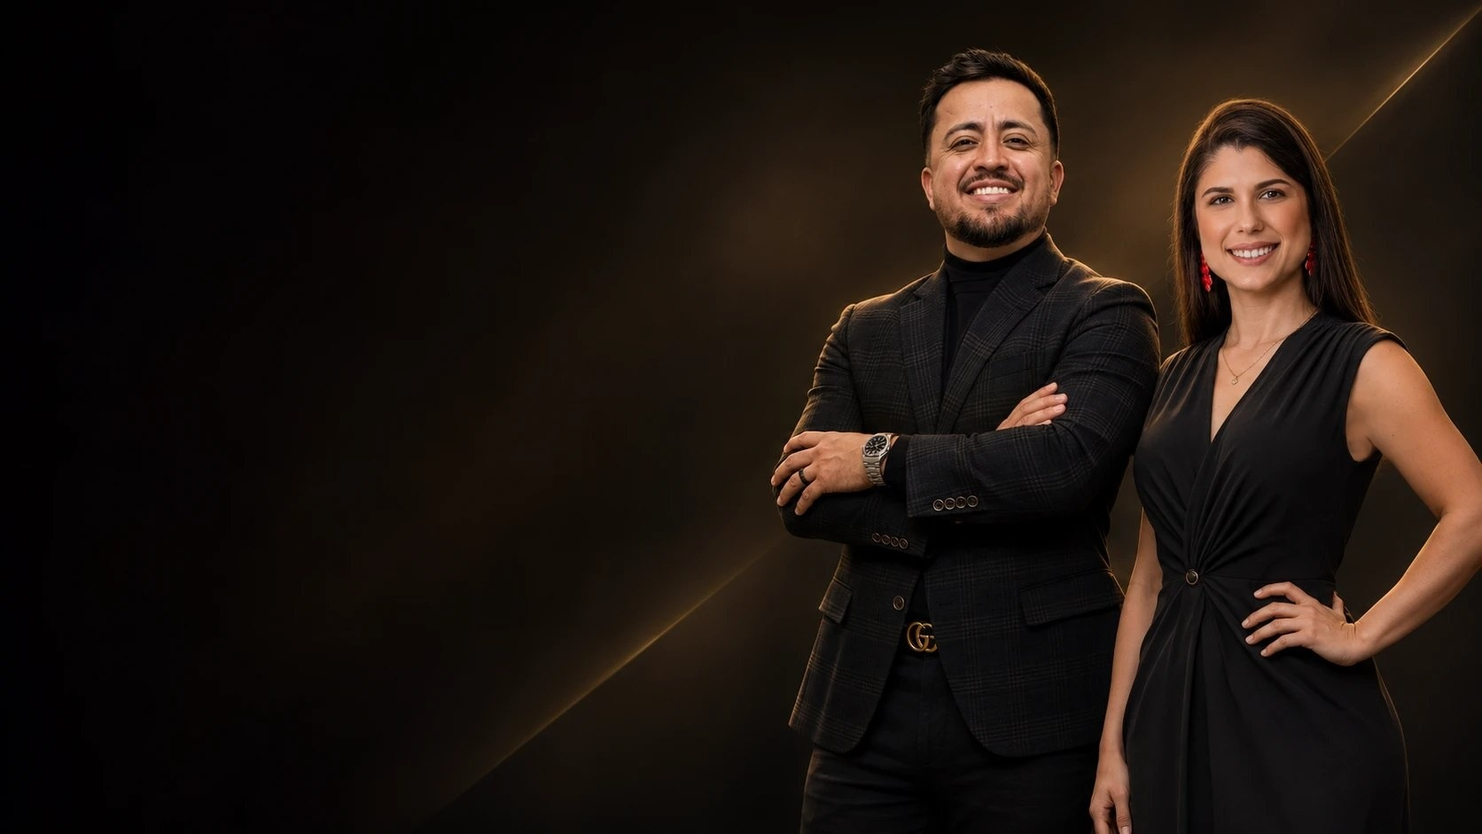
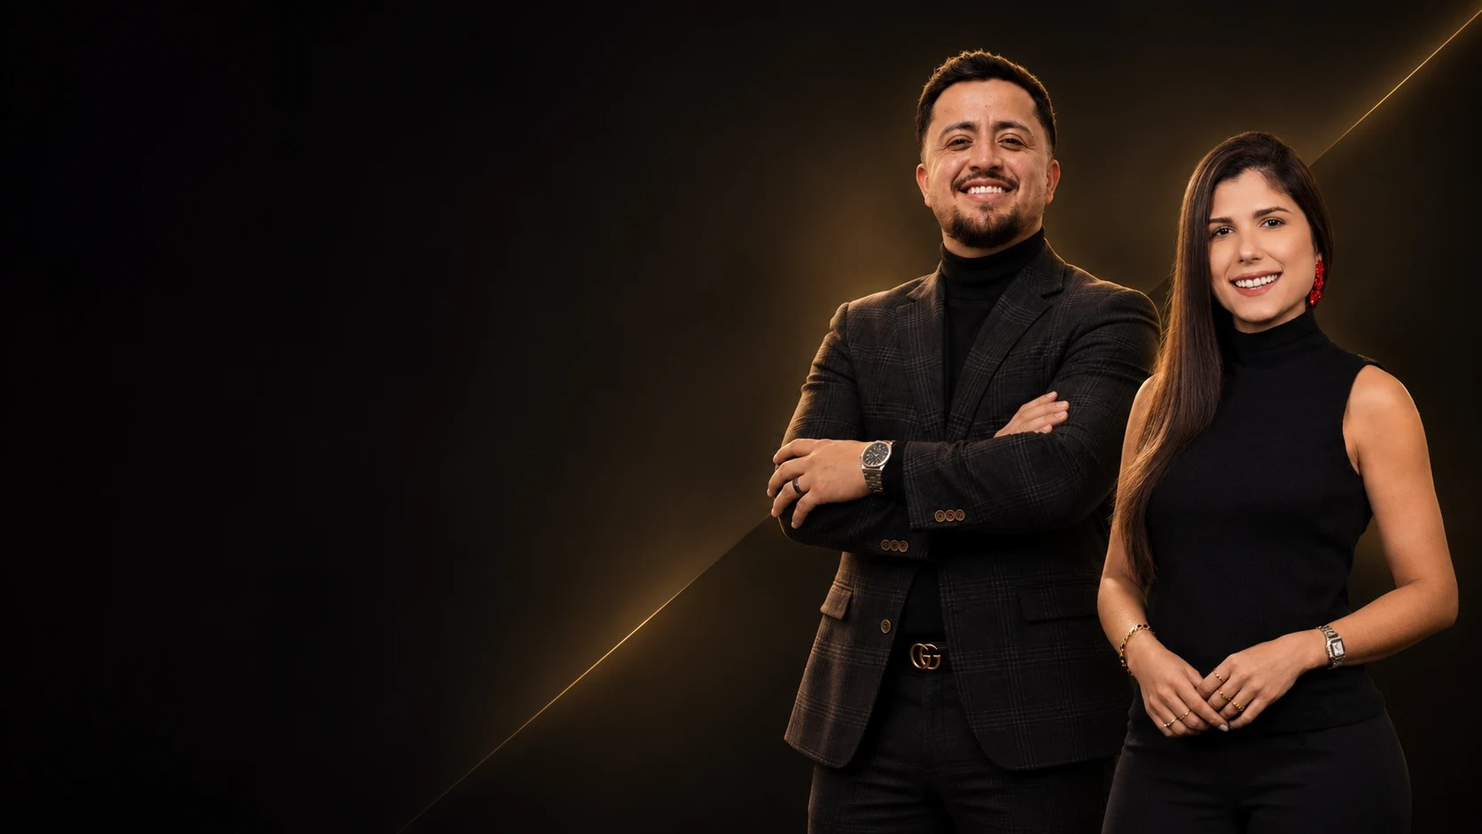
Nuevo Hero del Inicio con la foto actualizada de Hugo y Mónica; ajuste de encuadre móvil
Claude-Session: https://claude.ai/code/session_01McEpPGfYYtpWFQ3cEQ4ixh

diff --git a/index.html b/index.html
@@ -7,7 +7,7 @@
 <link rel="icon" href="assets/img/one-empire-isotipo.png">
 <link rel="preconnect" href="https://fonts.googleapis.com"><link rel="preconnect" href="https://fonts.gstatic.com" crossorigin>
 <link href="https://fonts.googleapis.com/css2?family=Archivo:wdth,wght@100..125,400..900&family=Montserrat:wght@400;500;600;700&display=swap" rel="stylesheet">
-<link rel="stylesheet" href="assets/css/styles.css?v=d9d6f842"><script type="application/ld+json">[{"@context":"https://schema.org","@type":"Organization","name":"ONE EMPIRE","url":"https://oneempire.com","logo":"https://oneempire.com/assets/img/one-empire-logo.png","founder":[{"@type":"Person","name":"Hugo Pérez"},{"@type":"Person","name":"Mónica Tuccella"}],"inLanguage":"es"},{"@context":"https://schema.org","@type":"FAQPage","mainEntity":[{"@type":"Question","name":"¿Esto funciona para mi tipo de empresa de construcción?","acceptedAnswer":{"@type":"Answer","text":"Trabajamos con contratistas de remodelación, roofing, pintura, concreto, landscaping, pisos, masonry y más. Si tienes una empresa de construcción o servicios para el hogar, los principios son los mismos."}},{"@type":"Question","name":"¿Necesito facturar cierta cantidad para entrar?","acceptedAnswer":{"@type":"Answer","text":"En la llamada revisamos tu situación actual y te decimos con honestidad si somos la mejor opción para ti en este momento."}},{"@type":"Question","name":"¿Es todo en español?","acceptedAnswer":{"@type":"Answer","text":"Sí. Todo nuestro contenido, mentorías y acompañamiento son en español."}},{"@type":"Question","name":"No tengo tiempo, ya trabajo demasiado.","acceptedAnswer":{"@type":"Answer","text":"Precisamente por eso existimos. El objetivo es que dejes de trabajar más horas y empieces a trabajar con un sistema que trabaje por ti."}},{"@type":"Question","name":"Ya he invertido en marketing antes y no funcionó. ¿Por qué esto sería diferente?","acceptedAnswer":{"@type":"Answer","text":"La mayoría de los contratistas que llegan a nosotros nos dicen lo mismo. El problema casi nunca es el marketing en sí, sino que no había una estrategia, un sistema de ventas ni un seguimiento detrás. Eso es lo que construimos contigo."}},{"@type":"Question","name":"¿Cuánto cuesta?","acceptedAnswer":{"@type":"Answer","text":"Cada empresa es diferente. En la llamada entendemos dónde estás y qué necesitas, y te presentamos la opción que tiene sentido para ti."}}]}]</script></head><body data-page="home"><header id="site-header"><div class="bar">
+<link rel="stylesheet" href="assets/css/styles.css?v=44f2b7a2"><script type="application/ld+json">[{"@context":"https://schema.org","@type":"Organization","name":"ONE EMPIRE","url":"https://oneempire.com","logo":"https://oneempire.com/assets/img/one-empire-logo.png","founder":[{"@type":"Person","name":"Hugo Pérez"},{"@type":"Person","name":"Mónica Tuccella"}],"inLanguage":"es"},{"@context":"https://schema.org","@type":"FAQPage","mainEntity":[{"@type":"Question","name":"¿Esto funciona para mi tipo de empresa de construcción?","acceptedAnswer":{"@type":"Answer","text":"Trabajamos con contratistas de remodelación, roofing, pintura, concreto, landscaping, pisos, masonry y más. Si tienes una empresa de construcción o servicios para el hogar, los principios son los mismos."}},{"@type":"Question","name":"¿Necesito facturar cierta cantidad para entrar?","acceptedAnswer":{"@type":"Answer","text":"En la llamada revisamos tu situación actual y te decimos con honestidad si somos la mejor opción para ti en este momento."}},{"@type":"Question","name":"¿Es todo en español?","acceptedAnswer":{"@type":"Answer","text":"Sí. Todo nuestro contenido, mentorías y acompañamiento son en español."}},{"@type":"Question","name":"No tengo tiempo, ya trabajo demasiado.","acceptedAnswer":{"@type":"Answer","text":"Precisamente por eso existimos. El objetivo es que dejes de trabajar más horas y empieces a trabajar con un sistema que trabaje por ti."}},{"@type":"Question","name":"Ya he invertido en marketing antes y no funcionó. ¿Por qué esto sería diferente?","acceptedAnswer":{"@type":"Answer","text":"La mayoría de los contratistas que llegan a nosotros nos dicen lo mismo. El problema casi nunca es el marketing en sí, sino que no había una estrategia, un sistema de ventas ni un seguimiento detrás. Eso es lo que construimos contigo."}},{"@type":"Question","name":"¿Cuánto cuesta?","acceptedAnswer":{"@type":"Answer","text":"Cada empresa es diferente. En la llamada entendemos dónde estás y qué necesitas, y te presentamos la opción que tiene sentido para ti."}}]}]</script></head><body data-page="home"><header id="site-header"><div class="bar">
 <a class="brand" href="index.html" aria-label="ONE EMPIRE"><img src="assets/img/one-empire-logo.png" alt="ONE EMPIRE" width="104" height="46"></a>
 <nav class="nav" id="nav"><a href="index.html" aria-current="page">Inicio</a>
 <div class="dd"><a href="programas-para-contratistas.html">Programas<i></i></a><div class="dd-menu"><a href="programas-para-contratistas.html#p1">ONE</a><a href="programas-para-contratistas.html#p2">Elite Builders</a><a href="programas-para-contratistas.html#p3">Elite Closers</a><a href="programas-para-contratistas.html#p4">Prime Diseño 3D</a></div></div>
@@ -16,7 +16,7 @@
 <a class="btn btn-sm" href="agenda-tu-llamada.html">Agenda tu llamada</a></nav>
 <a class="lang" href="en/index.html" hreflang="en" lang="en" aria-label="English"><span class="on">ES</span><span class="">EN</span></a>
 <button class="burger" id="burger" aria-label="Menu" aria-expanded="false"><span></span><span></span></button></div></header><main>
-<section class="hero photo" style="--img:url(../img/mentoria-empresas-construccion-hugo-perez-monica-tuccella.jpg?v=b118191d);--pos:center" role="img" aria-label="Hugo Pérez y Mónica Tuccella, mentores de empresas de construcción">
+<section class="hero photo" style="--img:url(../img/mentoria-empresas-construccion-hugo-perez-monica-tuccella.jpg?v=1a333f13);--pos:center" role="img" aria-label="Hugo Pérez y Mónica Tuccella, mentores de empresas de construcción">
  <div class="wrap hero-in"><h1>La aceleradora #1 para contratistas latinos <span class="a">en Estados Unidos</span></h1><p class="lead">De contratista a empresario. Mentoría para empresas de construcción que quieren crecer: aprende a escalar tu negocio, aumentar tus ventas, formar un equipo sólido y construir un negocio que funcione sin depender de ti para todo.</p>
  <div class="row"><a class="btn btn-gold" href="agenda-tu-llamada.html" >MIRA CÓMO PODEMOS AYUDARTE<span class="ar">→</span></a><a class="btn btn-ghost" href="programas-para-contratistas.html" >VER PROGRAMAS</a></div>
  <p class="proof">El sistema que llevó a Potros Construction de $100K a más de $600K al mes en solo 3 meses.</p></div></section>

diff --git a/en/index.html b/en/index.html
@@ -7,7 +7,7 @@
 <link rel="icon" href="../assets/img/one-empire-isotipo.png">
 <link rel="preconnect" href="https://fonts.googleapis.com"><link rel="preconnect" href="https://fonts.gstatic.com" crossorigin>
 <link href="https://fonts.googleapis.com/css2?family=Archivo:wdth,wght@100..125,400..900&family=Montserrat:wght@400;500;600;700&display=swap" rel="stylesheet">
-<link rel="stylesheet" href="../assets/css/styles.css?v=d9d6f842"><script type="application/ld+json">[{"@context":"https://schema.org","@type":"Organization","name":"ONE EMPIRE","url":"https://oneempire.com","logo":"https://oneempire.com/assets/img/one-empire-logo.png","founder":[{"@type":"Person","name":"Hugo Pérez"},{"@type":"Person","name":"Mónica Tuccella"}],"inLanguage":"en"},{"@context":"https://schema.org","@type":"FAQPage","mainEntity":[{"@type":"Question","name":"Does this work for my type of construction company?","acceptedAnswer":{"@type":"Answer","text":"We work with remodeling, roofing, painting, concrete, landscaping, flooring, masonry contractors and more. If you have a construction or home-services company, the principles are the same."}},{"@type":"Question","name":"Do I need a minimum revenue to join?","acceptedAnswer":{"@type":"Answer","text":"On the call we review your current situation and tell you honestly whether we're the best option for you right now."}},{"@type":"Question","name":"Is everything in Spanish?","acceptedAnswer":{"@type":"Answer","text":"Yes. All our content, mentorship and support are in Spanish."}},{"@type":"Question","name":"I don't have time, I already work too much.","acceptedAnswer":{"@type":"Answer","text":"That's exactly why we exist. The goal is for you to stop working more hours and start working with a system that works for you."}},{"@type":"Question","name":"I've invested in marketing before and it didn't work. Why would this be different?","acceptedAnswer":{"@type":"Answer","text":"Most contractors who come to us say the same. The problem is almost never marketing itself, but that there was no strategy, sales system or follow-up behind it. That's what we build with you."}},{"@type":"Question","name":"How much does it cost?","acceptedAnswer":{"@type":"Answer","text":"Every company is different. On the call we understand where you are and what you need, and we present the option that makes sense for you."}}]}]</script></head><body data-page="home"><header id="site-header"><div class="bar">
+<link rel="stylesheet" href="../assets/css/styles.css?v=44f2b7a2"><script type="application/ld+json">[{"@context":"https://schema.org","@type":"Organization","name":"ONE EMPIRE","url":"https://oneempire.com","logo":"https://oneempire.com/assets/img/one-empire-logo.png","founder":[{"@type":"Person","name":"Hugo Pérez"},{"@type":"Person","name":"Mónica Tuccella"}],"inLanguage":"en"},{"@context":"https://schema.org","@type":"FAQPage","mainEntity":[{"@type":"Question","name":"Does this work for my type of construction company?","acceptedAnswer":{"@type":"Answer","text":"We work with remodeling, roofing, painting, concrete, landscaping, flooring, masonry contractors and more. If you have a construction or home-services company, the principles are the same."}},{"@type":"Question","name":"Do I need a minimum revenue to join?","acceptedAnswer":{"@type":"Answer","text":"On the call we review your current situation and tell you honestly whether we're the best option for you right now."}},{"@type":"Question","name":"Is everything in Spanish?","acceptedAnswer":{"@type":"Answer","text":"Yes. All our content, mentorship and support are in Spanish."}},{"@type":"Question","name":"I don't have time, I already work too much.","acceptedAnswer":{"@type":"Answer","text":"That's exactly why we exist. The goal is for you to stop working more hours and start working with a system that works for you."}},{"@type":"Question","name":"I've invested in marketing before and it didn't work. Why would this be different?","acceptedAnswer":{"@type":"Answer","text":"Most contractors who come to us say the same. The problem is almost never marketing itself, but that there was no strategy, sales system or follow-up behind it. That's what we build with you."}},{"@type":"Question","name":"How much does it cost?","acceptedAnswer":{"@type":"Answer","text":"Every company is different. On the call we understand where you are and what you need, and we present the option that makes sense for you."}}]}]</script></head><body data-page="home"><header id="site-header"><div class="bar">
 <a class="brand" href="index.html" aria-label="ONE EMPIRE"><img src="../assets/img/one-empire-logo.png" alt="ONE EMPIRE" width="104" height="46"></a>
 <nav class="nav" id="nav"><a href="index.html" aria-current="page">Home</a>
 <div class="dd"><a href="programs-for-contractors.html">Programs<i></i></a><div class="dd-menu"><a href="programs-for-contractors.html#p1">ONE</a><a href="programs-for-contractors.html#p2">Elite Builders</a><a href="programs-for-contractors.html#p3">Elite Closers</a><a href="programs-for-contractors.html#p4">Prime 3D Design</a></div></div>
@@ -16,7 +16,7 @@
 <a class="btn btn-sm" href="book-your-call.html">Book your call</a></nav>
 <a class="lang" href="../index.html" hreflang="es" lang="es" aria-label="Español"><span class="">ES</span><span class="on">EN</span></a>
 <button class="burger" id="burger" aria-label="Menu" aria-expanded="false"><span></span><span></span></button></div></header><main>
-<section class="hero photo" style="--img:url(../img/mentorship-construction-companies-hugo-perez-monica-tuccella.jpg?v=b118191d);--pos:center" role="img" aria-label="Hugo Pérez and Mónica Tuccella, construction company mentors">
+<section class="hero photo" style="--img:url(../img/mentorship-construction-companies-hugo-perez-monica-tuccella.jpg?v=1a333f13);--pos:center" role="img" aria-label="Hugo Pérez and Mónica Tuccella, construction company mentors">
  <div class="wrap hero-in"><h1>The #1 accelerator for Latino contractors <span class="a">in the United States</span></h1><p class="lead">From contractor to entrepreneur. Mentorship for construction companies that want to grow: learn to scale your business, increase sales, build a solid team and create a business that runs without depending on you for everything.</p>
  <div class="row"><a class="btn btn-gold" href="book-your-call.html" >SEE HOW WE CAN HELP YOU<span class="ar">→</span></a><a class="btn btn-ghost" href="programs-for-contractors.html" >VIEW PROGRAMS</a></div>
  <p class="proof">The system that took Potros Construction from $100K to over $600K a month in just 3 months.</p></div></section>

diff --git a/programas-para-contratistas.html b/programas-para-contratistas.html
@@ -7,7 +7,7 @@
 <link rel="icon" href="assets/img/one-empire-isotipo.png">
 <link rel="preconnect" href="https://fonts.googleapis.com"><link rel="preconnect" href="https://fonts.gstatic.com" crossorigin>
 <link href="https://fonts.googleapis.com/css2?family=Archivo:wdth,wght@100..125,400..900&family=Montserrat:wght@400;500;600;700&display=swap" rel="stylesheet">
-<link rel="stylesheet" href="assets/css/styles.css?v=d9d6f842"></head><body data-page="programs"><header id="site-header"><div class="bar">
+<link rel="stylesheet" href="assets/css/styles.css?v=44f2b7a2"></head><body data-page="programs"><header id="site-header"><div class="bar">
 <a class="brand" href="index.html" aria-label="ONE EMPIRE"><img src="assets/img/one-empire-logo.png" alt="ONE EMPIRE" width="104" height="46"></a>
 <nav class="nav" id="nav"><a href="index.html">Inicio</a>
 <div class="dd"><a href="programas-para-contratistas.html">Programas<i></i></a><div class="dd-menu"><a href="programas-para-contratistas.html#p1">ONE</a><a href="programas-para-contratistas.html#p2">Elite Builders</a><a href="programas-para-contratistas.html#p3">Elite Closers</a><a href="programas-para-contratistas.html#p4">Prime Diseño 3D</a></div></div>

diff --git a/privacidad.html b/privacidad.html
@@ -7,7 +7,7 @@
 <link rel="icon" href="assets/img/one-empire-isotipo.png">
 <link rel="preconnect" href="https://fonts.googleapis.com"><link rel="preconnect" href="https://fonts.gstatic.com" crossorigin>
 <link href="https://fonts.googleapis.com/css2?family=Archivo:wdth,wght@100..125,400..900&family=Montserrat:wght@400;500;600;700&display=swap" rel="stylesheet">
-<link rel="stylesheet" href="assets/css/styles.css?v=d9d6f842"></head><body data-page="privacy"><header id="site-header"><div class="bar">
+<link rel="stylesheet" href="assets/css/styles.css?v=44f2b7a2"></head><body data-page="privacy"><header id="site-header"><div class="bar">
 <a class="brand" href="index.html" aria-label="ONE EMPIRE"><img src="assets/img/one-empire-logo.png" alt="ONE EMPIRE" width="104" height="46"></a>
 <nav class="nav" id="nav"><a href="index.html">Inicio</a>
 <div class="dd"><a href="programas-para-contratistas.html">Programas<i></i></a><div class="dd-menu"><a href="programas-para-contratistas.html#p1">ONE</a><a href="programas-para-contratistas.html#p2">Elite Builders</a><a href="programas-para-contratistas.html#p3">Elite Closers</a><a href="programas-para-contratistas.html#p4">Prime Diseño 3D</a></div></div>

diff --git a/resultados-de-contratistas-latinos.html b/resultados-de-contratistas-latinos.html
@@ -7,7 +7,7 @@
 <link rel="icon" href="assets/img/one-empire-isotipo.png">
 <link rel="preconnect" href="https://fonts.googleapis.com"><link rel="preconnect" href="https://fonts.gstatic.com" crossorigin>
 <link href="https://fonts.googleapis.com/css2?family=Archivo:wdth,wght@100..125,400..900&family=Montserrat:wght@400;500;600;700&display=swap" rel="stylesheet">
-<link rel="stylesheet" href="assets/css/styles.css?v=d9d6f842"></head><body data-page="results"><header id="site-header"><div class="bar">
+<link rel="stylesheet" href="assets/css/styles.css?v=44f2b7a2"></head><body data-page="results"><header id="site-header"><div class="bar">
 <a class="brand" href="index.html" aria-label="ONE EMPIRE"><img src="assets/img/one-empire-logo.png" alt="ONE EMPIRE" width="104" height="46"></a>
 <nav class="nav" id="nav"><a href="index.html">Inicio</a>
 <div class="dd"><a href="programas-para-contratistas.html">Programas<i></i></a><div class="dd-menu"><a href="programas-para-contratistas.html#p1">ONE</a><a href="programas-para-contratistas.html#p2">Elite Builders</a><a href="programas-para-contratistas.html#p3">Elite Closers</a><a href="programas-para-contratistas.html#p4">Prime Diseño 3D</a></div></div>

diff --git a/eventos-para-contratistas.html b/eventos-para-contratistas.html
@@ -7,7 +7,7 @@
 <link rel="icon" href="assets/img/one-empire-isotipo.png">
 <link rel="preconnect" href="https://fonts.googleapis.com"><link rel="preconnect" href="https://fonts.gstatic.com" crossorigin>
 <link href="https://fonts.googleapis.com/css2?family=Archivo:wdth,wght@100..125,400..900&family=Montserrat:wght@400;500;600;700&display=swap" rel="stylesheet">
-<link rel="stylesheet" href="assets/css/styles.css?v=d9d6f842"></head><body data-page="events"><header id="site-header"><div class="bar">
+<link rel="stylesheet" href="assets/css/styles.css?v=44f2b7a2"></head><body data-page="events"><header id="site-header"><div class="bar">
 <a class="brand" href="index.html" aria-label="ONE EMPIRE"><img src="assets/img/one-empire-logo.png" alt="ONE EMPIRE" width="104" height="46"></a>
 <nav class="nav" id="nav"><a href="index.html">Inicio</a>
 <div class="dd"><a href="programas-para-contratistas.html">Programas<i></i></a><div class="dd-menu"><a href="programas-para-contratistas.html#p1">ONE</a><a href="programas-para-contratistas.html#p2">Elite Builders</a><a href="programas-para-contratistas.html#p3">Elite Closers</a><a href="programas-para-contratistas.html#p4">Prime Diseño 3D</a></div></div>

diff --git a/gracias.html b/gracias.html
@@ -7,7 +7,7 @@
 <link rel="icon" href="assets/img/one-empire-isotipo.png">
 <link rel="preconnect" href="https://fonts.googleapis.com"><link rel="preconnect" href="https://fonts.gstatic.com" crossorigin>
 <link href="https://fonts.googleapis.com/css2?family=Archivo:wdth,wght@100..125,400..900&family=Montserrat:wght@400;500;600;700&display=swap" rel="stylesheet">
-<link rel="stylesheet" href="assets/css/styles.css?v=d9d6f842"></head><body data-page="thanks"><header id="site-header"><div class="bar">
+<link rel="stylesheet" href="assets/css/styles.css?v=44f2b7a2"></head><body data-page="thanks"><header id="site-header"><div class="bar">
 <a class="brand" href="index.html" aria-label="ONE EMPIRE"><img src="assets/img/one-empire-logo.png" alt="ONE EMPIRE" width="104" height="46"></a>
 <nav class="nav" id="nav"><a href="index.html">Inicio</a>
 <div class="dd"><a href="programas-para-contratistas.html">Programas<i></i></a><div class="dd-menu"><a href="programas-para-contratistas.html#p1">ONE</a><a href="programas-para-contratistas.html#p2">Elite Builders</a><a href="programas-para-contratistas.html#p3">Elite Closers</a><a href="programas-para-contratistas.html#p4">Prime Diseño 3D</a></div></div>

diff --git a/mentores-para-contratistas-latinos.html b/mentores-para-contratistas-latinos.html
@@ -7,7 +7,7 @@
 <link rel="icon" href="assets/img/one-empire-isotipo.png">
 <link rel="preconnect" href="https://fonts.googleapis.com"><link rel="preconnect" href="https://fonts.gstatic.com" crossorigin>
 <link href="https://fonts.googleapis.com/css2?family=Archivo:wdth,wght@100..125,400..900&family=Montserrat:wght@400;500;600;700&display=swap" rel="stylesheet">
-<link rel="stylesheet" href="assets/css/styles.css?v=d9d6f842"></head><body data-page="about"><header id="site-header"><div class="bar">
+<link rel="stylesheet" href="assets/css/styles.css?v=44f2b7a2"></head><body data-page="about"><header id="site-header"><div class="bar">
 <a class="brand" href="index.html" aria-label="ONE EMPIRE"><img src="assets/img/one-empire-logo.png" alt="ONE EMPIRE" width="104" height="46"></a>
 <nav class="nav" id="nav"><a href="index.html">Inicio</a>
 <div class="dd"><a href="programas-para-contratistas.html">Programas<i></i></a><div class="dd-menu"><a href="programas-para-contratistas.html#p1">ONE</a><a href="programas-para-contratistas.html#p2">Elite Builders</a><a href="programas-para-contratistas.html#p3">Elite Closers</a><a href="programas-para-contratistas.html#p4">Prime Diseño 3D</a></div></div>

diff --git a/terminos.html b/terminos.html
@@ -7,7 +7,7 @@
 <link rel="icon" href="assets/img/one-empire-isotipo.png">
 <link rel="preconnect" href="https://fonts.googleapis.com"><link rel="preconnect" href="https://fonts.gstatic.com" crossorigin>
 <link href="https://fonts.googleapis.com/css2?family=Archivo:wdth,wght@100..125,400..900&family=Montserrat:wght@400;500;600;700&display=swap" rel="stylesheet">
-<link rel="stylesheet" href="assets/css/styles.css?v=d9d6f842"></head><body data-page="terms"><header id="site-header"><div class="bar">
+<link rel="stylesheet" href="assets/css/styles.css?v=44f2b7a2"></head><body data-page="terms"><header id="site-header"><div class="bar">
 <a class="brand" href="index.html" aria-label="ONE EMPIRE"><img src="assets/img/one-empire-logo.png" alt="ONE EMPIRE" width="104" height="46"></a>
 <nav class="nav" id="nav"><a href="index.html">Inicio</a>
 <div class="dd"><a href="programas-para-contratistas.html">Programas<i></i></a><div class="dd-menu"><a href="programas-para-contratistas.html#p1">ONE</a><a href="programas-para-contratistas.html#p2">Elite Builders</a><a href="programas-para-contratistas.html#p3">Elite Closers</a><a href="programas-para-contratistas.html#p4">Prime Diseño 3D</a></div></div>

diff --git a/en/programs-for-contractors.html b/en/programs-for-contractors.html
@@ -7,7 +7,7 @@
 <link rel="icon" href="../assets/img/one-empire-isotipo.png">
 <link rel="preconnect" href="https://fonts.googleapis.com"><link rel="preconnect" href="https://fonts.gstatic.com" crossorigin>
 <link href="https://fonts.googleapis.com/css2?family=Archivo:wdth,wght@100..125,400..900&family=Montserrat:wght@400;500;600;700&display=swap" rel="stylesheet">
-<link rel="stylesheet" href="../assets/css/styles.css?v=d9d6f842"></head><body data-page="programs"><header id="site-header"><div class="bar">
+<link rel="stylesheet" href="../assets/css/styles.css?v=44f2b7a2"></head><body data-page="programs"><header id="site-header"><div class="bar">
 <a class="brand" href="index.html" aria-label="ONE EMPIRE"><img src="../assets/img/one-empire-logo.png" alt="ONE EMPIRE" width="104" height="46"></a>
 <nav class="nav" id="nav"><a href="index.html">Home</a>
 <div class="dd"><a href="programs-for-contractors.html">Programs<i></i></a><div class="dd-menu"><a href="programs-for-contractors.html#p1">ONE</a><a href="programs-for-contractors.html#p2">Elite Builders</a><a href="programs-for-contractors.html#p3">Elite Closers</a><a href="programs-for-contractors.html#p4">Prime 3D Design</a></div></div>

diff --git a/agenda-tu-llamada.html b/agenda-tu-llamada.html
@@ -7,7 +7,7 @@
 <link rel="icon" href="assets/img/one-empire-isotipo.png">
 <link rel="preconnect" href="https://fonts.googleapis.com"><link rel="preconnect" href="https://fonts.gstatic.com" crossorigin>
 <link href="https://fonts.googleapis.com/css2?family=Archivo:wdth,wght@100..125,400..900&family=Montserrat:wght@400;500;600;700&display=swap" rel="stylesheet">
-<link rel="stylesheet" href="assets/css/styles.css?v=d9d6f842"></head><body data-page="book"><header id="site-header"><div class="bar">
+<link rel="stylesheet" href="assets/css/styles.css?v=44f2b7a2"></head><body data-page="book"><header id="site-header"><div class="bar">
 <a class="brand" href="index.html" aria-label="ONE EMPIRE"><img src="assets/img/one-empire-logo.png" alt="ONE EMPIRE" width="104" height="46"></a>
 <nav class="nav" id="nav"><a href="index.html">Inicio</a>
 <div class="dd"><a href="programas-para-contratistas.html">Programas<i></i></a><div class="dd-menu"><a href="programas-para-contratistas.html#p1">ONE</a><a href="programas-para-contratistas.html#p2">Elite Builders</a><a href="programas-para-contratistas.html#p3">Elite Closers</a><a href="programas-para-contratistas.html#p4">Prime Diseño 3D</a></div></div>

diff --git a/en/latino-contractor-results.html b/en/latino-contractor-results.html
@@ -7,7 +7,7 @@
 <link rel="icon" href="../assets/img/one-empire-isotipo.png">
 <link rel="preconnect" href="https://fonts.googleapis.com"><link rel="preconnect" href="https://fonts.gstatic.com" crossorigin>
 <link href="https://fonts.googleapis.com/css2?family=Archivo:wdth,wght@100..125,400..900&family=Montserrat:wght@400;500;600;700&display=swap" rel="stylesheet">
-<link rel="stylesheet" href="../assets/css/styles.css?v=d9d6f842"></head><body data-page="results"><header id="site-header"><div class="bar">
+<link rel="stylesheet" href="../assets/css/styles.css?v=44f2b7a2"></head><body data-page="results"><header id="site-header"><div class="bar">
 <a class="brand" href="index.html" aria-label="ONE EMPIRE"><img src="../assets/img/one-empire-logo.png" alt="ONE EMPIRE" width="104" height="46"></a>
 <nav class="nav" id="nav"><a href="index.html">Home</a>
 <div class="dd"><a href="programs-for-contractors.html">Programs<i></i></a><div class="dd-menu"><a href="programs-for-contractors.html#p1">ONE</a><a href="programs-for-contractors.html#p2">Elite Builders</a><a href="programs-for-contractors.html#p3">Elite Closers</a><a href="programs-for-contractors.html#p4">Prime 3D Design</a></div></div>
